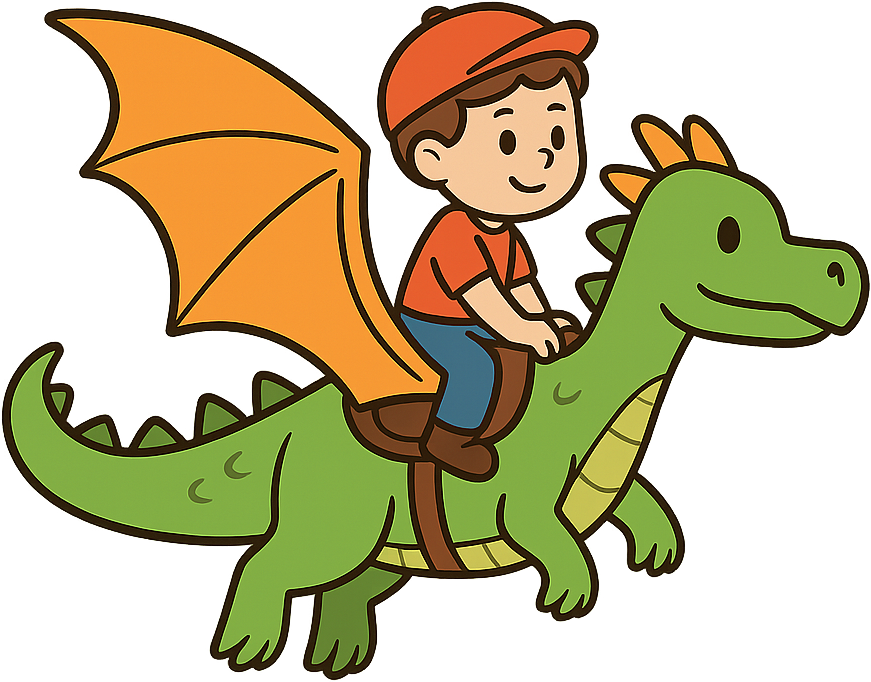
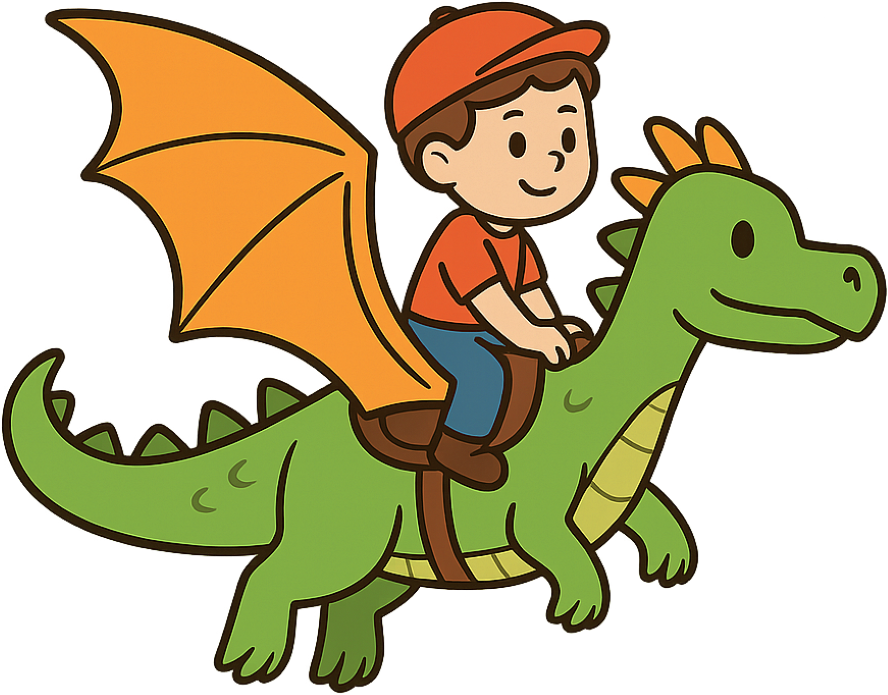
feat: Update game assets and enhance gameplay configuration for improved user experience

diff --git a/ifocus_2_player_game/ui/play_window_ui.py b/ifocus_2_player_game/ui/play_window_ui.py
@@ -171,16 +171,15 @@ async def run_game_loop(game_state: Optional[Dict[str, Any]] = None) -> None:
     display_info = pygame.display.Info()
     screen_w, screen_h = display_info.current_w, display_info.current_h
 
-    base_scale = max(0.85, min(1.45, min(screen_w / 1440.0, screen_h / 900.0)))
-    fit_scale = min(screen_w / BASE_WIDTH, screen_h / BASE_HEIGHT)
-    ui_scale = min(base_scale, fit_scale)
+    # Use maximized window mode with title bar (not fullscreen)
+    # This allows users to close the window easily
+    window_width = screen_w
+    window_height = screen_h
+    ui_scale = min(screen_w / 1440.0, screen_h / 900.0)
     if ui_scale <= 0:
         ui_scale = 0.5
 
-    window_width = int(BASE_WIDTH * ui_scale)
-    window_height = int(BASE_HEIGHT * ui_scale)
-
-    screen = pygame.display.set_mode((window_width, window_height))
+    screen = pygame.display.set_mode((window_width, window_height), pygame.RESIZABLE)
     clock = pygame.time.Clock()
 
     # Session / player configuration (isolated from UI logic)
@@ -224,9 +223,10 @@ async def run_game_loop(game_state: Optional[Dict[str, Any]] = None) -> None:
     background = load_image("skyblue.png")
     cloud_img = load_image("cloud.png")
     cloud2_img = load_image("cloud2.png")
-    dragon_img = load_image("dragondown.png")
+    dragon_img = load_image("dragon_wings_up.png")
+    dragon_img2 = load_image("dragon_wings_down.png")
 
-    # Optional projectile / obstacle sprites
+    # Optional projectile / obstacle 3.3
     fireball_img = try_load_image("fireball.png")
     arrow_img = try_load_image("arrow.png")
     javelin_img = try_load_image("javelin.png")
@@ -250,17 +250,20 @@ async def run_game_loop(game_state: Optional[Dict[str, Any]] = None) -> None:
     cloud2_img = scale_to_width(cloud2_img, int(window_width * 0.22))
 
     # Dragon: scale by height so it does not dominate the screen
-    dragon_h_target = int(window_height * 0.22)
+    dragon_h_target = int(window_height * 0.14)
     d_w, d_h = dragon_img.get_size()
     if d_h > 0:
         d_scale = dragon_h_target / float(d_h)
         dragon_size = (int(d_w * d_scale), int(d_h * d_scale))
         dragon_img = pygame.transform.smoothscale(dragon_img, dragon_size)
+        dragon_img2 = pygame.transform.smoothscale(dragon_img2, dragon_size)
 
     # Projectile configuration (slow, readable motion)
     projectile_types = []
     # Make base speed quite slow so movement is gentle
-    base_speed = 80 * ui_scale
+    # Use config from game_state if available, otherwise default
+    base_speed_multiplier = game_state.get("projectile_base_speed", 80) if game_state else 80
+    base_speed = base_speed_multiplier * ui_scale
 
     # Scale projectiles so they sit nicely in the scene.
     # Slightly smaller so they feel less punishing.
@@ -305,8 +308,15 @@ async def run_game_loop(game_state: Optional[Dict[str, Any]] = None) -> None:
     local_strengths = [50 for _ in players]
     local_wearing = [True for _ in players]
     
+    # Interpolated strengths for smooth movement (avoids teleporting)
+    interpolated_strengths = [50.0 for _ in players]
+    
     scores = [0 for _ in players]
     hit_timers = [0.0 for _ in players]
+
+    # Wing animation timing
+    wing_animation_timer = 0.0
+    wing_flap_interval = 0.3  # seconds between wing flaps
 
     # Round timer (seconds)
     round_duration = max(1, getattr(session_cfg, "duration_seconds", 60))
@@ -318,7 +328,8 @@ async def run_game_loop(game_state: Optional[Dict[str, Any]] = None) -> None:
     projectile_spawn_accumulator = 0.0
     # Spawn very slowly so players are nudged to move,
     # but not overwhelmed.
-    projectile_spawn_interval = 8.0  # seconds
+    # Use config from game_state if available, otherwise default
+    projectile_spawn_interval = game_state.get("projectile_spawn_interval", 8.0) if game_state else 8.0  # seconds
     # Remember which player was targeted last so we can avoid
     # picking the same one twice in a row when possible.
     last_projectile_target_idx = None
@@ -384,6 +395,14 @@ async def run_game_loop(game_state: Optional[Dict[str, Any]] = None) -> None:
             
         last_time = current_time
 
+        # Update wing animation
+        wing_animation_timer += dt
+        if wing_animation_timer >= wing_flap_interval * 2:
+            wing_animation_timer = 0.0
+        
+        # Select which dragon image to use based on animation timer
+        current_dragon_img = dragon_img if wing_animation_timer < wing_flap_interval else dragon_img2
+
         # Sync with external game_state if provided
         if game_state:
             if not game_state.get("running", True):
@@ -420,6 +439,17 @@ async def run_game_loop(game_state: Optional[Dict[str, Any]] = None) -> None:
             ext_wearing = game_state.get("wearing", [])
             for i in range(min(len(local_wearing), len(ext_wearing))):
                 local_wearing[i] = ext_wearing[i]
+        
+        # Smoothly interpolate character positions to avoid teleporting
+        # Use fast interpolation (lerp factor based on dt) for continuous movement
+        interpolation_speed = 8.0  # Higher = faster convergence to target
+        for i in range(len(players)):
+            target_strength = local_strengths[i]
+            current_strength = interpolated_strengths[i]
+            
+            # Lerp towards target: smooth but fast
+            diff = target_strength - current_strength
+            interpolated_strengths[i] += diff * min(1.0, interpolation_speed * dt)
 
         # Event handling
         # Process pygame events carefully to avoid interfering with Qt event loop
@@ -427,9 +457,13 @@ async def run_game_loop(game_state: Optional[Dict[str, Any]] = None) -> None:
             for event in pygame.event.get():
                 if event.type == pygame.QUIT:
                     running = False
+                    if game_state is not None:
+                        game_state["running"] = False
                 elif event.type == pygame.KEYDOWN:
                     if event.key == pygame.K_ESCAPE:
                         running = False
+                        if game_state is not None:
+                            game_state["running"] = False
                     # Removed K_UP/K_DOWN manual control
                 elif event.type == pygame.MOUSEBUTTONDOWN and event.button == 1:
                     if state == "game_over":
@@ -499,9 +533,9 @@ async def run_game_loop(game_state: Optional[Dict[str, Any]] = None) -> None:
                 img = proj_type["image"]
                 if img is not None:
                     dragon_y_for_target = map_strength_to_y(
-                        local_strengths[target_idx],
+                        interpolated_strengths[target_idx],
                         window_height,
-                        dragon_img.get_height(),
+                        current_dragon_img.get_height(),
                         # Give players more room to move vertically
                         top_margin=int(80 * ui_scale),
                         bottom_margin=int(4 * ui_scale),
@@ -523,12 +557,12 @@ async def run_game_loop(game_state: Optional[Dict[str, Any]] = None) -> None:
                     else:
                         pattern = [0]
 
-                    vertical_step = int(dragon_img.get_height() * 0.2)
+                    vertical_step = int(current_dragon_img.get_height() * 0.2)
 
                     for offset_index in pattern:
                         spawn_y = int(
                             dragon_y_for_target
-                            + dragon_img.get_height() * 0.35
+                            + current_dragon_img.get_height() * 0.35
                             + offset_index * vertical_step
                         )
 
@@ -538,8 +572,8 @@ async def run_game_loop(game_state: Optional[Dict[str, Any]] = None) -> None:
                         # Aim roughly towards the chosen target point with
                         # slight random vertical offset to vary the arc.
                         aim_y = dragon_y_for_target + random.uniform(
-                            -dragon_img.get_height() * 0.2,
-                            dragon_img.get_height() * 0.2,
+                            -current_dragon_img.get_height() * 0.2,
+                            current_dragon_img.get_height() * 0.2,
                         )
                         dx = target_x - spawn_x
                         dy = aim_y - spawn_y
@@ -624,19 +658,19 @@ async def run_game_loop(game_state: Optional[Dict[str, Any]] = None) -> None:
                         t = idx / float(num_players - 1)
                         dragon_center_x = left_band + t * (right_band - left_band)
                     dragon_y = map_strength_to_y(
-                        local_strengths[idx],
+                        interpolated_strengths[idx],
                         window_height,
-                        dragon_img.get_height(),
+                        current_dragon_img.get_height(),
                         # Same expanded vertical range as in the draw pass
                         top_margin=int(80 * ui_scale),
                         bottom_margin=int(4 * ui_scale),
                     )
-                    dragon_x = int(dragon_center_x - dragon_img.get_width() / 2)
+                    dragon_x = int(dragon_center_x - current_dragon_img.get_width() / 2)
                     dragon_rect = pygame.Rect(
                         dragon_x,
                         int(dragon_y),
-                        dragon_img.get_width(),
-                        dragon_img.get_height(),
+                        current_dragon_img.get_width(),
+                        current_dragon_img.get_height(),
                     )
                     if dragon_rect.colliderect(proj_rect):
                         # Avoid repeatedly hitting the same player with the same projectile
@@ -726,6 +760,9 @@ async def run_game_loop(game_state: Optional[Dict[str, Any]] = None) -> None:
         # Draw each player's dragon (with optional swirl), label, and status
         num_players = len(players)
         for idx, player in enumerate(players):
+            # Use interpolated strength for smooth movement
+            current_strength = interpolated_strengths[idx]
+            
             # Horizontal position: spread players across a band that is
             # clearly on the left side of the screen with a bit more
             # distance between them.
@@ -739,15 +776,15 @@ async def run_game_loop(game_state: Optional[Dict[str, Any]] = None) -> None:
             # Allow the dragon to travel much further up and down the screen
             # by using smaller top/bottom margins in the mapping.
             dragon_y = map_strength_to_y(
-                local_strengths[idx],
+                current_strength,
                 window_height,
-                dragon_img.get_height(),
+                current_dragon_img.get_height(),
                 top_margin=int(80 * ui_scale),
                 bottom_margin=int(4 * ui_scale),
             )
 
             # Base center for the sprite
-            base_center_y = dragon_y + dragon_img.get_height() / 2
+            base_center_y = dragon_y + current_dragon_img.get_height() / 2
             base_center = (int(dragon_center_x), int(base_center_y))
 
             if hit_timers[idx] > 0:
@@ -756,10 +793,10 @@ async def run_game_loop(game_state: Optional[Dict[str, Any]] = None) -> None:
                 angle = 10 * math.sin(t * 18)
                 offset_y = -8 * ui_scale * abs(math.sin(t * 12))
                 center = (base_center[0], int(base_center[1] + offset_y))
-                sprite = pygame.transform.rotozoom(dragon_img, angle, 1.0)
+                sprite = pygame.transform.rotozoom(current_dragon_img, angle, 1.0)
                 dragon_rect = sprite.get_rect(center=center)
             else:
-                sprite = dragon_img
+                sprite = current_dragon_img
                 dragon_rect = sprite.get_rect(center=base_center)
 
             # Dragon sprite

diff --git a/ifocus_2_player_game/main.py b/ifocus_2_player_game/main.py
@@ -41,6 +41,24 @@ logging.basicConfig(level=logging.INFO)
 logger = logging.getLogger("main")
 logger.setLevel(logging.INFO)  # Keep main at INFO, but allow DEBUG from SDK
 
+# ============================================================
+# SESSION CONFIGURATION - Easy to adjust
+# ============================================================
+# Calibration settings
+NUM_RELAX_ROUNDS = 1        # Number of RELAX calibration rounds
+NUM_FOCUS_ROUNDS = 1        # Number of FOCUS calibration rounds
+RELAX_DURATION = 10         # Duration of each RELAX round (seconds)
+FOCUS_DURATION = 10         # Duration of each FOCUS round (seconds)
+
+# Live play settings
+LIVE_DURATION = 60          # Duration of live gameplay (seconds)
+INFERENCE_UPDATE_HZ = 2.0   # Focus score updates per second during live play
+
+# Projectile and obstacle settings
+PROJECTILE_BASE_SPEED = 80      # Base speed multiplier for projectiles (pixels/second, scaled by UI)
+PROJECTILE_SPAWN_INTERVAL = 8.0 # Time between projectile spawns (seconds)
+# ============================================================
+
 class GameController:
     def __init__(self, window: IFocusWindow):
         self.window = window
@@ -77,11 +95,14 @@ class GameController:
         try:
             logger.info("Scanning for devices...")
             # _scan_ifocus_devices returns list of (addr, name, rssi)
-            devices_raw = await _scan_ifocus_devices(timeout_s=3.0)
+            devices_raw = await _scan_ifocus_devices(timeout_s=6.0)
             
             devices = []
-            for addr, name, rssi in devices_raw:
-                devices.append(DeviceInfo(name=name, mac=addr, rssi=rssi))
+            for i, (addr, name, rssi) in enumerate(devices_raw):
+                # Assign default player names (Player 1, Player 2, etc.)
+                # instead of device names which might be confusing/identical
+                player_name = f"Player {i + 1}"
+                devices.append(DeviceInfo(name=player_name, mac=addr, rssi=rssi))
             
             # Limit to 4
             devices = devices[:4]
@@ -179,7 +200,9 @@ class GameController:
                 "id": "init",
                 "type": "RELAX",
                 "duration": 10
-            }
+            },
+            "projectile_base_speed": PROJECTILE_BASE_SPEED,
+            "projectile_spawn_interval": PROJECTILE_SPAWN_INTERVAL,
         }
 
         # Configure initial session config for the UI to pick up players
@@ -265,12 +288,18 @@ class GameController:
 
                 await asyncio.sleep(0.1)
 
-        async def run_inference_session(calibrate: bool, live_duration: int = 60):
+        async def run_inference_session(calibrate: bool, live_duration: int = LIVE_DURATION):
             """Optionally recalibrate/train, then run inference + live stage."""
 
             if calibrate:
-                await run_stage_logic("RELAX", 10)
-                await run_stage_logic("FOCUS", 10)
+                # Run calibration rounds based on configuration
+                for round_num in range(NUM_RELAX_ROUNDS):
+                    logger.info(f"RELAX round {round_num + 1}/{NUM_RELAX_ROUNDS}")
+                    await run_stage_logic("RELAX", RELAX_DURATION)
+                
+                for round_num in range(NUM_FOCUS_ROUNDS):
+                    logger.info(f"FOCUS round {round_num + 1}/{NUM_FOCUS_ROUNDS}")
+                    await run_stage_logic("FOCUS", FOCUS_DURATION)
 
                 logger.info("Training models...")
                 from ifocus_sdk.APIs.trainFocusModel import trainFocusModel
@@ -299,7 +328,7 @@ class GameController:
                         return cb
 
                     task = asyncio.create_task(
-                        startFocusInference(player_name, client, updateHz=2.0, callback=make_callback(idx))
+                        startFocusInference(player_name, client, updateHz=INFERENCE_UPDATE_HZ, callback=make_callback(idx))
                     )
                     inference_tasks.append((mac, player_name, client, task))
 
@@ -342,7 +371,7 @@ class GameController:
                             logger.warning(f"Reset failed for {player_name}: {e}")
 
                 # Run session (calibration+train+live or just live with existing model)
-                await run_inference_session(calibrate=calibrate, live_duration=60)
+                await run_inference_session(calibrate=calibrate, live_duration=LIVE_DURATION)
 
                 # Wait for user choice from UI (rematch or start fresh)
                 chosen = None

diff --git a/ifocus_sdk/APIs/FocusInference.py b/ifocus_sdk/APIs/FocusInference.py
@@ -91,8 +91,9 @@ async def _inference_loop(
         warning_interval = 2.0
         was_wearing = True
         
+        reader = iFocusRealTimeReader(client, chunk_sec=chunk_sec)
         try:
-            async for chunk in iFocusRealTimeReader(client, chunk_sec=chunk_sec):
+            async for chunk in reader:
                 if stop_event.is_set():
                     break
                 
@@ -141,9 +142,12 @@ async def _inference_loop(
                         callback(label, strength, timestamp)
                     except Exception as e:
                         logger.warning("Callback error: %s", e)
-        except GeneratorExit:
-            # Stop was requested while the generator was mid-iteration; just exit quietly
-            pass
+        finally:
+            # Properly close the async generator to avoid GeneratorExit warnings
+            try:
+                await reader.aclose()
+            except Exception:
+                pass
     
     except Exception as e:
         logger.exception("Inference loop failed: %s", e)

diff --git a/ifocus_sdk/APIs/calibrationControl.py b/ifocus_sdk/APIs/calibrationControl.py
@@ -100,6 +100,9 @@ async def iFocusRealTimeReader(client, chunk_sec: float = 1.0):
                 yield np.array(buffer[:chunk_samples], dtype=float)
                 del buffer[:chunk_samples]
                 
+    except GeneratorExit:
+        # Generator is being closed; clean up silently
+        pass
     finally:
         try:
             await client.write_gatt_char(COMMAND_CHAR_UUID, b"\x02", response=True)
